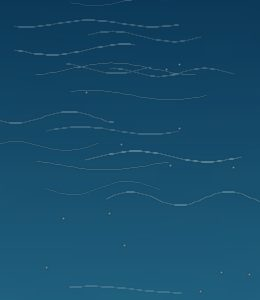
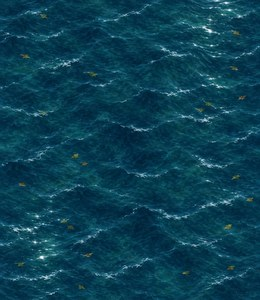
Painted art from Scenario: islands water tiles, empty artifact slots, level shields that grow richer with the level

diff --git a/src/ui/growthUi.tsx b/src/ui/growthUi.tsx
@@ -13,7 +13,6 @@ export function SkillIcon({ skill, size = 40 }: { skill: SkillId; size?: number 
 }
 
 export const SLOT_NAMES: Record<Slot, string> = { weapon: 'Broń', armor: 'Zbroja', boots: 'Buty' };
-const SLOT_GLYPH: Record<Slot, string> = { weapon: 'gSword', armor: 'gShield', boots: 'gBoot' };
 const SLOTS: Slot[] = ['weapon', 'armor', 'boots'];
 
 /** The painted icon of an artifact (public/assets/ikony/artefakty): bronze for the first tier, gold and purple for the second. */
@@ -54,8 +53,10 @@ export function XpBar({ hero }: { hero: HeroState }) {
   const pct = next === null ? 1 : Math.max(0, Math.min(1, (xp - from) / (next - from)));
   return (
     <div className="xpbar" title={next === null ? 'Najwyższy poziom.' : `Do poziomu ${level + 1} brakuje ${Math.max(0, next - xp)} PD. PD dają bitwy, skarby i kapliczki.`}>
-      <div className="xpbar-level" aria-label={`Poziom ${level}`}>
-        {level}
+      {/* A shield that grows richer with the level: plain iron, bronze, silver, gold with sapphires, winged gold with crystals. */}
+      <div className={`xpbar-level lvl${Math.min(level, 5)}`} aria-label={`Poziom ${level}`}>
+        <img src={asset(`ikony/poziom/${Math.min(Math.max(level, 1), 5)}.webp`)} alt="" width={56} height={56} />
+        <span>{level}</span>
       </div>
       <div style={{ flex: 1, minWidth: 0 }}>
         <div className="xpbar-track">
@@ -98,12 +99,7 @@ export function HeroGrowth({ hero }: { hero: HeroState }) {
             </span>
           ) : (
             <span key={slot} className="gear-empty" title={`${SLOT_NAMES[slot]}: puste miejsce. Artefakty leżą w skrzyniach na mapie, wypadają ze strażników i z pokonanych bohaterów.`} data-gear-empty={slot}>
-              <svg width="38" height="38" viewBox="0 0 40 40" aria-hidden="true">
-                <circle cx="20" cy="20" r="17" fill="none" stroke="#B88A35" strokeWidth="1.6" strokeDasharray="4 3" opacity="0.7" />
-                <g opacity="0.35" transform="translate(6 6) scale(0.7)">
-                  <use href={`#${SLOT_GLYPH[slot]}`} />
-                </g>
-              </svg>
+              <img src={asset(`ikony/sloty/${slot === 'weapon' ? 'weapon' : slot === 'armor' ? 'armor' : 'boots'}.webp`)} alt="" width={40} height={40} style={{ display: 'block', opacity: 0.9 }} />
             </span>
           );
         })}

diff --git a/src/ui/styles.css b/src/ui/styles.css
@@ -663,10 +663,15 @@ button.skill-card:hover, button.skill-card:focus-visible { transform: translateY
 .skill-card-text { font-size: 16px; line-height: 1.3; min-height: 3.9em; }
 .skill-card-pick { margin-top: 4px; padding: 3px 18px; border-radius: 8px; font-weight: 800; color: #F6EAD0; background: linear-gradient(180deg, #2E8A3A, #14501E); box-shadow: 0 0 0 1.5px #1E1204; }
 .xpbar { display: flex; align-items: center; gap: 10px; }
-.xpbar-level {
-  flex: none; width: 36px; height: 36px; border-radius: 50%; display: flex; align-items: center; justify-content: center; font-weight: 800; font-size: 20px; color: #3A2410;
-  background: radial-gradient(circle at 35% 30%, #FFF0B0, #E2B04A 55%, #9A6A18); box-shadow: 0 0 0 2px #1E1204, 0 0 8px rgba(243, 210, 122, 0.5);
-}
+.xpbar-level { position: relative; flex: none; width: 56px; height: 56px; display: flex; align-items: center; justify-content: center; }
+.xpbar-level img { position: absolute; inset: 0; width: 100%; height: 100%; object-fit: contain; pointer-events: none; }
+.xpbar-level span { position: relative; font-family: inherit; font-weight: 800; font-size: 22px; line-height: 1; margin-top: -2px; color: #F4EAD0; text-shadow: 0 1px 2px #000, 0 0 4px #000; }
+.xpbar-level.lvl2 span { color: #FFE9B8; }
+.xpbar-level.lvl3 span { color: #2A3340; text-shadow: 0 1px 0 rgba(255, 255, 255, 0.7); }
+.xpbar-level.lvl4 span, .xpbar-level.lvl5 span { color: #FFF2B8; text-shadow: 0 1px 2px #1A1004, 0 0 6px #1A1004; }
+.xpbar-level.lvl4 { filter: drop-shadow(0 0 5px rgba(255, 200, 80, 0.55)); }
+.xpbar-level.lvl5 { filter: drop-shadow(0 0 7px rgba(120, 210, 255, 0.8)); animation: lvl5-glow 2.4s ease-in-out infinite; }
+@keyframes lvl5-glow { 50% { filter: drop-shadow(0 0 11px rgba(160, 230, 255, 1)); } }
 .xpbar-track { height: 12px; border-radius: 6px; background: #14201F; box-shadow: inset 0 0 0 1.5px #1E1204, 0 0 0 1px rgba(184, 138, 53, 0.6); overflow: hidden; }
 .xpbar-fill { height: 100%; background: linear-gradient(180deg, #C9F0FF, #4AA8E0 55%, #2A6FB0); transition: width 0.6s ease-out; }
 .xpbar-text { font-size: 13px; margin-top: 3px; color: #F7EDD2; }

diff --git a/scripts/assets/growth_art.py b/scripts/assets/growth_art.py
@@ -1,0 +1,65 @@
+"""Cuts the Scenario pictures (GPT Image 2.5 Flare, 2026-11-09) into game files: water tiles, empty gear slots, level shields.
+The pictures come with a black background: it is turned into transparency (unmultiplied, so a glow stays a soft glow).
+Usage: python3 scripts/assets/growth_art.py <folder with the downloaded jpg files>  (names in SRC below)"""
+import sys
+from PIL import Image, ImageChops, ImageDraw
+
+SRC = sys.argv[1].rstrip('/')
+OUT = 'public/assets'
+F = {
+    'water_1': 'mcp-scenario-blob-1794233707554-aluxid.jpg',
+    'water_2': 'mcp-scenario-blob-1794233715003-5h3290.jpg',
+    'weapon': 'mcp-scenario-blob-1794233714576-kkjzj6.jpg',
+    'armor': 'mcp-scenario-blob-1794233714555-thncuc.jpg',
+    'boots': 'mcp-scenario-blob-1794233714712-p2mcw4.jpg',
+    'lvl1': 'mcp-scenario-blob-1794233724834-e29t92.jpg',
+    'lvl2': 'mcp-scenario-blob-1794233725019-zlb0ll.jpg',
+    'lvl3': 'mcp-scenario-blob-1794233725030-k3zn6q.jpg',
+    'lvl4': 'mcp-scenario-blob-1794233724996-jwyj3w.jpg',
+    'lvl5': 'mcp-scenario-blob-1794233725555-zj3fe7.jpg',
+}
+LIM = 28
+
+
+def cut_black(path: str, size: int) -> Image.Image:
+    rgb = Image.open(path).convert('RGB')
+    w, h = rgb.size
+    mx = ImageChops.lighter(ImageChops.lighter(rgb.getchannel('R'), rgb.getchannel('G')), rgb.getchannel('B'))
+    # Background = dark pixels connected to the border (flood fill marks them 128).
+    mark = mx.point(lambda v: 255 if v <= LIM else 0)
+    for x in range(0, w, 8):
+        for y in (0, h - 1):
+            if mark.getpixel((x, y)) == 255:
+                ImageDraw.floodfill(mark, (x, y), 128)
+    for y in range(0, h, 8):
+        for x in (0, w - 1):
+            if mark.getpixel((x, y)) == 255:
+                ImageDraw.floodfill(mark, (x, y), 128)
+    px, m, k = rgb.load(), mx.load(), mark.load()
+    out = Image.new('RGBA', (w, h))
+    o = out.load()
+    for y in range(h):
+        for x in range(w):
+            if k[x, y] == 128:
+                a = min(1.0, m[x, y] / LIM)
+                r, g, b = px[x, y]
+                f = 1 / max(a, 0.05)
+                o[x, y] = (min(255, int(r * f)), min(255, int(g * f)), min(255, int(b * f)), int(a * 255))
+            else:
+                o[x, y] = px[x, y] + (255,)
+    bbox = out.getchannel('A').point(lambda v: 255 if v > 24 else 0).getbbox()
+    out = out.crop(bbox)
+    side = max(out.size)
+    sq = Image.new('RGBA', (side, side), (0, 0, 0, 0))
+    sq.paste(out, ((side - out.width) // 2, (side - out.height) // 2))
+    return sq.resize((size, size), Image.LANCZOS)
+
+
+for n in ('water_1', 'water_2'):
+    im = Image.open(f'{SRC}/{F[n]}').convert('RGB')
+    # The picture is 1024 x 1182: scale to the tile (260 x 300).
+    im.resize((260, 300), Image.LANCZOS).save(f'{OUT}/tiles/{n}.jpg', quality=88)
+for n in ('weapon', 'armor', 'boots'):
+    cut_black(f'{SRC}/{F[n]}', 128).save(f'{OUT}/ikony/sloty/{n}.webp', quality=88)
+for i in range(1, 6):
+    cut_black(f'{SRC}/{F[f"lvl{i}"]}', 192).save(f'{OUT}/ikony/poziom/{i}.webp', quality=88)

diff --git a/CHANGELOG.md b/CHANGELOG.md
@@ -6,6 +6,7 @@ Każdy wpis to jeden commit, a skrót commita stoi w nawiasie na końcu wpisu (c
 
 ## W przygotowaniu
 
+- Nowe malowane grafiki: woda między wyspami (zamiast gładkiego gradientu), puste miejsca na artefakty (miecz, tarcza, but w brązowych medalionach) oraz tarcza poziomu bohatera, która z każdym poziomem jest bogatsza: szare żelazo, brąz, srebro, złoto z szafirami, a na 5. poziomie złote skrzydła z błękitnymi kryształami i poświatą. Numer poziomu jest na środku tarczy.
 - Wersja cyfrowa: polegli (np. Władca Wilkołaków) nie leżą już na trzech heksach ani za wysoko: trup jednostki jednopolowej jest ograniczony do szerokości dwóch heksów i leży na linii stóp, a animacja śmierci płynnie do tego dochodzi.
 - Koniec gry: po zwycięstwie (Hordy i Przymierza) gra tylko dźwięk zwycięstwa albo porażki; stare utwory zwycięstwa nie nakładają się już na niego.
 - Wersja cyfrowa: dwupolowe jednostki da się atakować z każdej strony, także od strony ogona, a dwupolowy atakujący liczy podejście całym swoim ciałem. Kursor miecza pojawia się też nad polem ogona, nie tylko nad głową.
